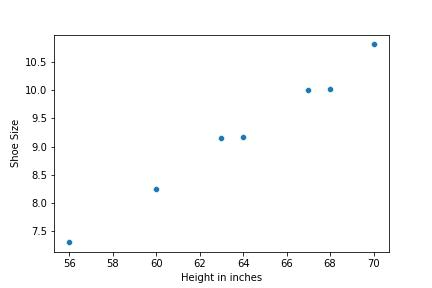
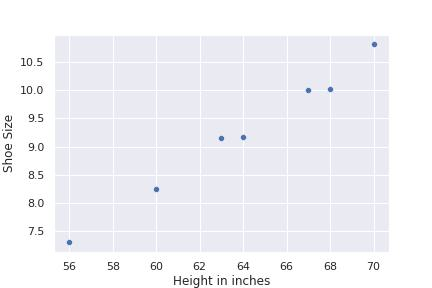
Completed supervised ml model blog

diff --git a/content/posts/understanding-ml-models/index.md b/content/posts/understanding-ml-models/index.md
@@ -55,6 +55,12 @@ We can break down the training process into the following steps:
 
 To train our model we repeat the above steps until we are satisfied with the model. So lets get started!
 
+#### Linear Regression
+
+The model we are training is a **Linear Regression** model. A linear regression model tries to find a straight line that best fits the data.
+
+> The same principles used to create a linear regression model also carry over to other supervised machine learning models.
+
 #### Initializing the parameters
 
 We start by initializing the parameters ( m and c ) of the model.
@@ -98,4 +104,59 @@ def cost(y, y_hat):
 
 #### Updating the parameters
 
+During each iteration of the training process, we will update each parameter like so:
 
+$$p = p - LearningRate * \frac{\partial (cost(y, \hat y))}{\partial p} $$
+
+> where p is the parameter and the learning rate controls the rate at which the parameters are updated.
+
+```python
+def gradient_descent(y, y_hat, m, c, learning_rate):
+    m = m - learning_rate * np.sum((y - y_hat) * x) / len(y)
+    c = c - learning_rate * np.sum((y - y_hat)) / len(y)
+    return m, c
+```
+
+#### Bringing it all together
+
+Now we can bring it all together into a single class like so:
+
+```python
+class Regression:
+    def __init__(self, x, y):
+        self.m = 0
+        self.c = 0
+        self.x = x
+        self.y = y
+
+    def predict(self, x):
+        return self.m * x + self.c
+
+    def cost(self):
+        y_hat = self.predict(self.x)
+        return np.sum((y_hat - self.y) ** 2) / len(self.y)
+
+    def gradient_descent(self, learning_rate):
+        y_hat = self.predict(self.x)
+        dm = (-2 / len(self.y)) * np.sum((self.y - y_hat) * self.x)
+        dc = (-2 / len(self.y)) * np.sum((self.y - y_hat))
+        self.m = self.m - learning_rate * dm
+        self.c = self.c - learning_rate * dc
+        return self.cost()
+
+    def train(self, learning_rate, iterations):
+        for i in range(iterations):
+            self.gradient_descent(learning_rate)
+        return self.m, self.c
+```
+
+And finally we can train it by specifying the learning rate and the number of iterations.
+
+```python
+model = Regression(x, y)
+model.train(0.0001, 100)
+```
+
+<image src="height-shoe_size-regression.jpg" class="u-full-width">
+
+There you have it! We have created a regression model that can predict the shoe size based on the height and vice versa.
